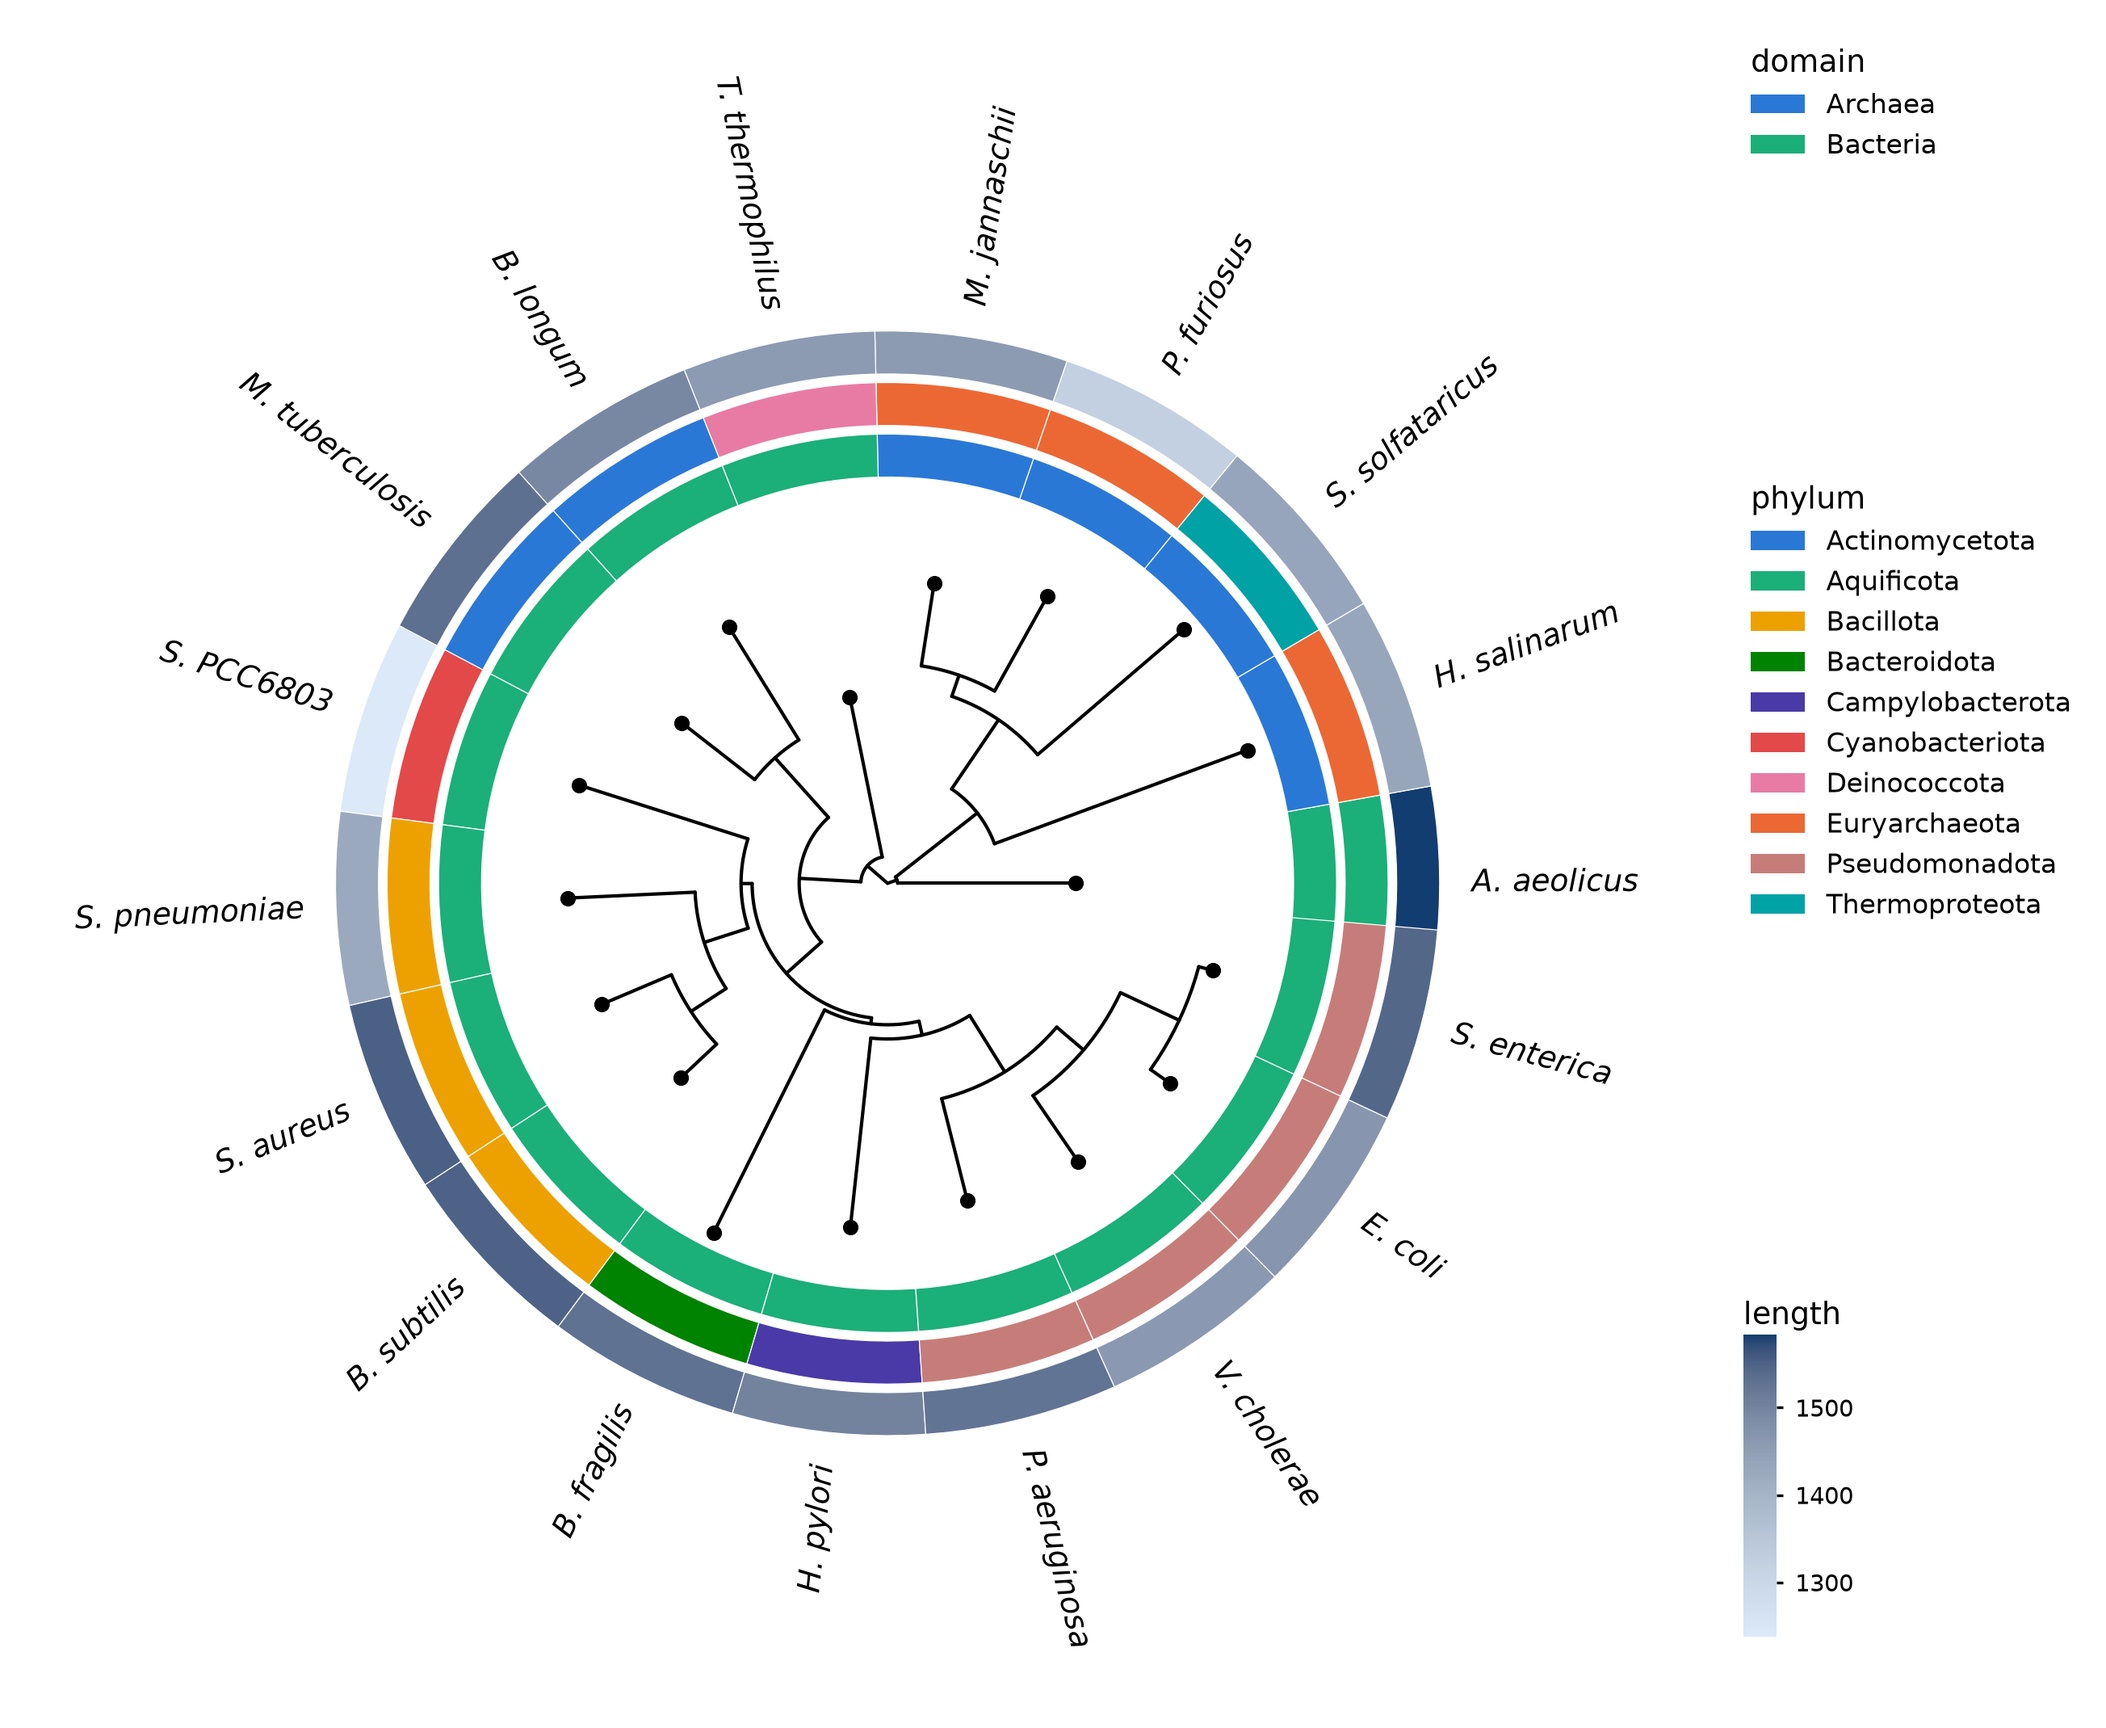
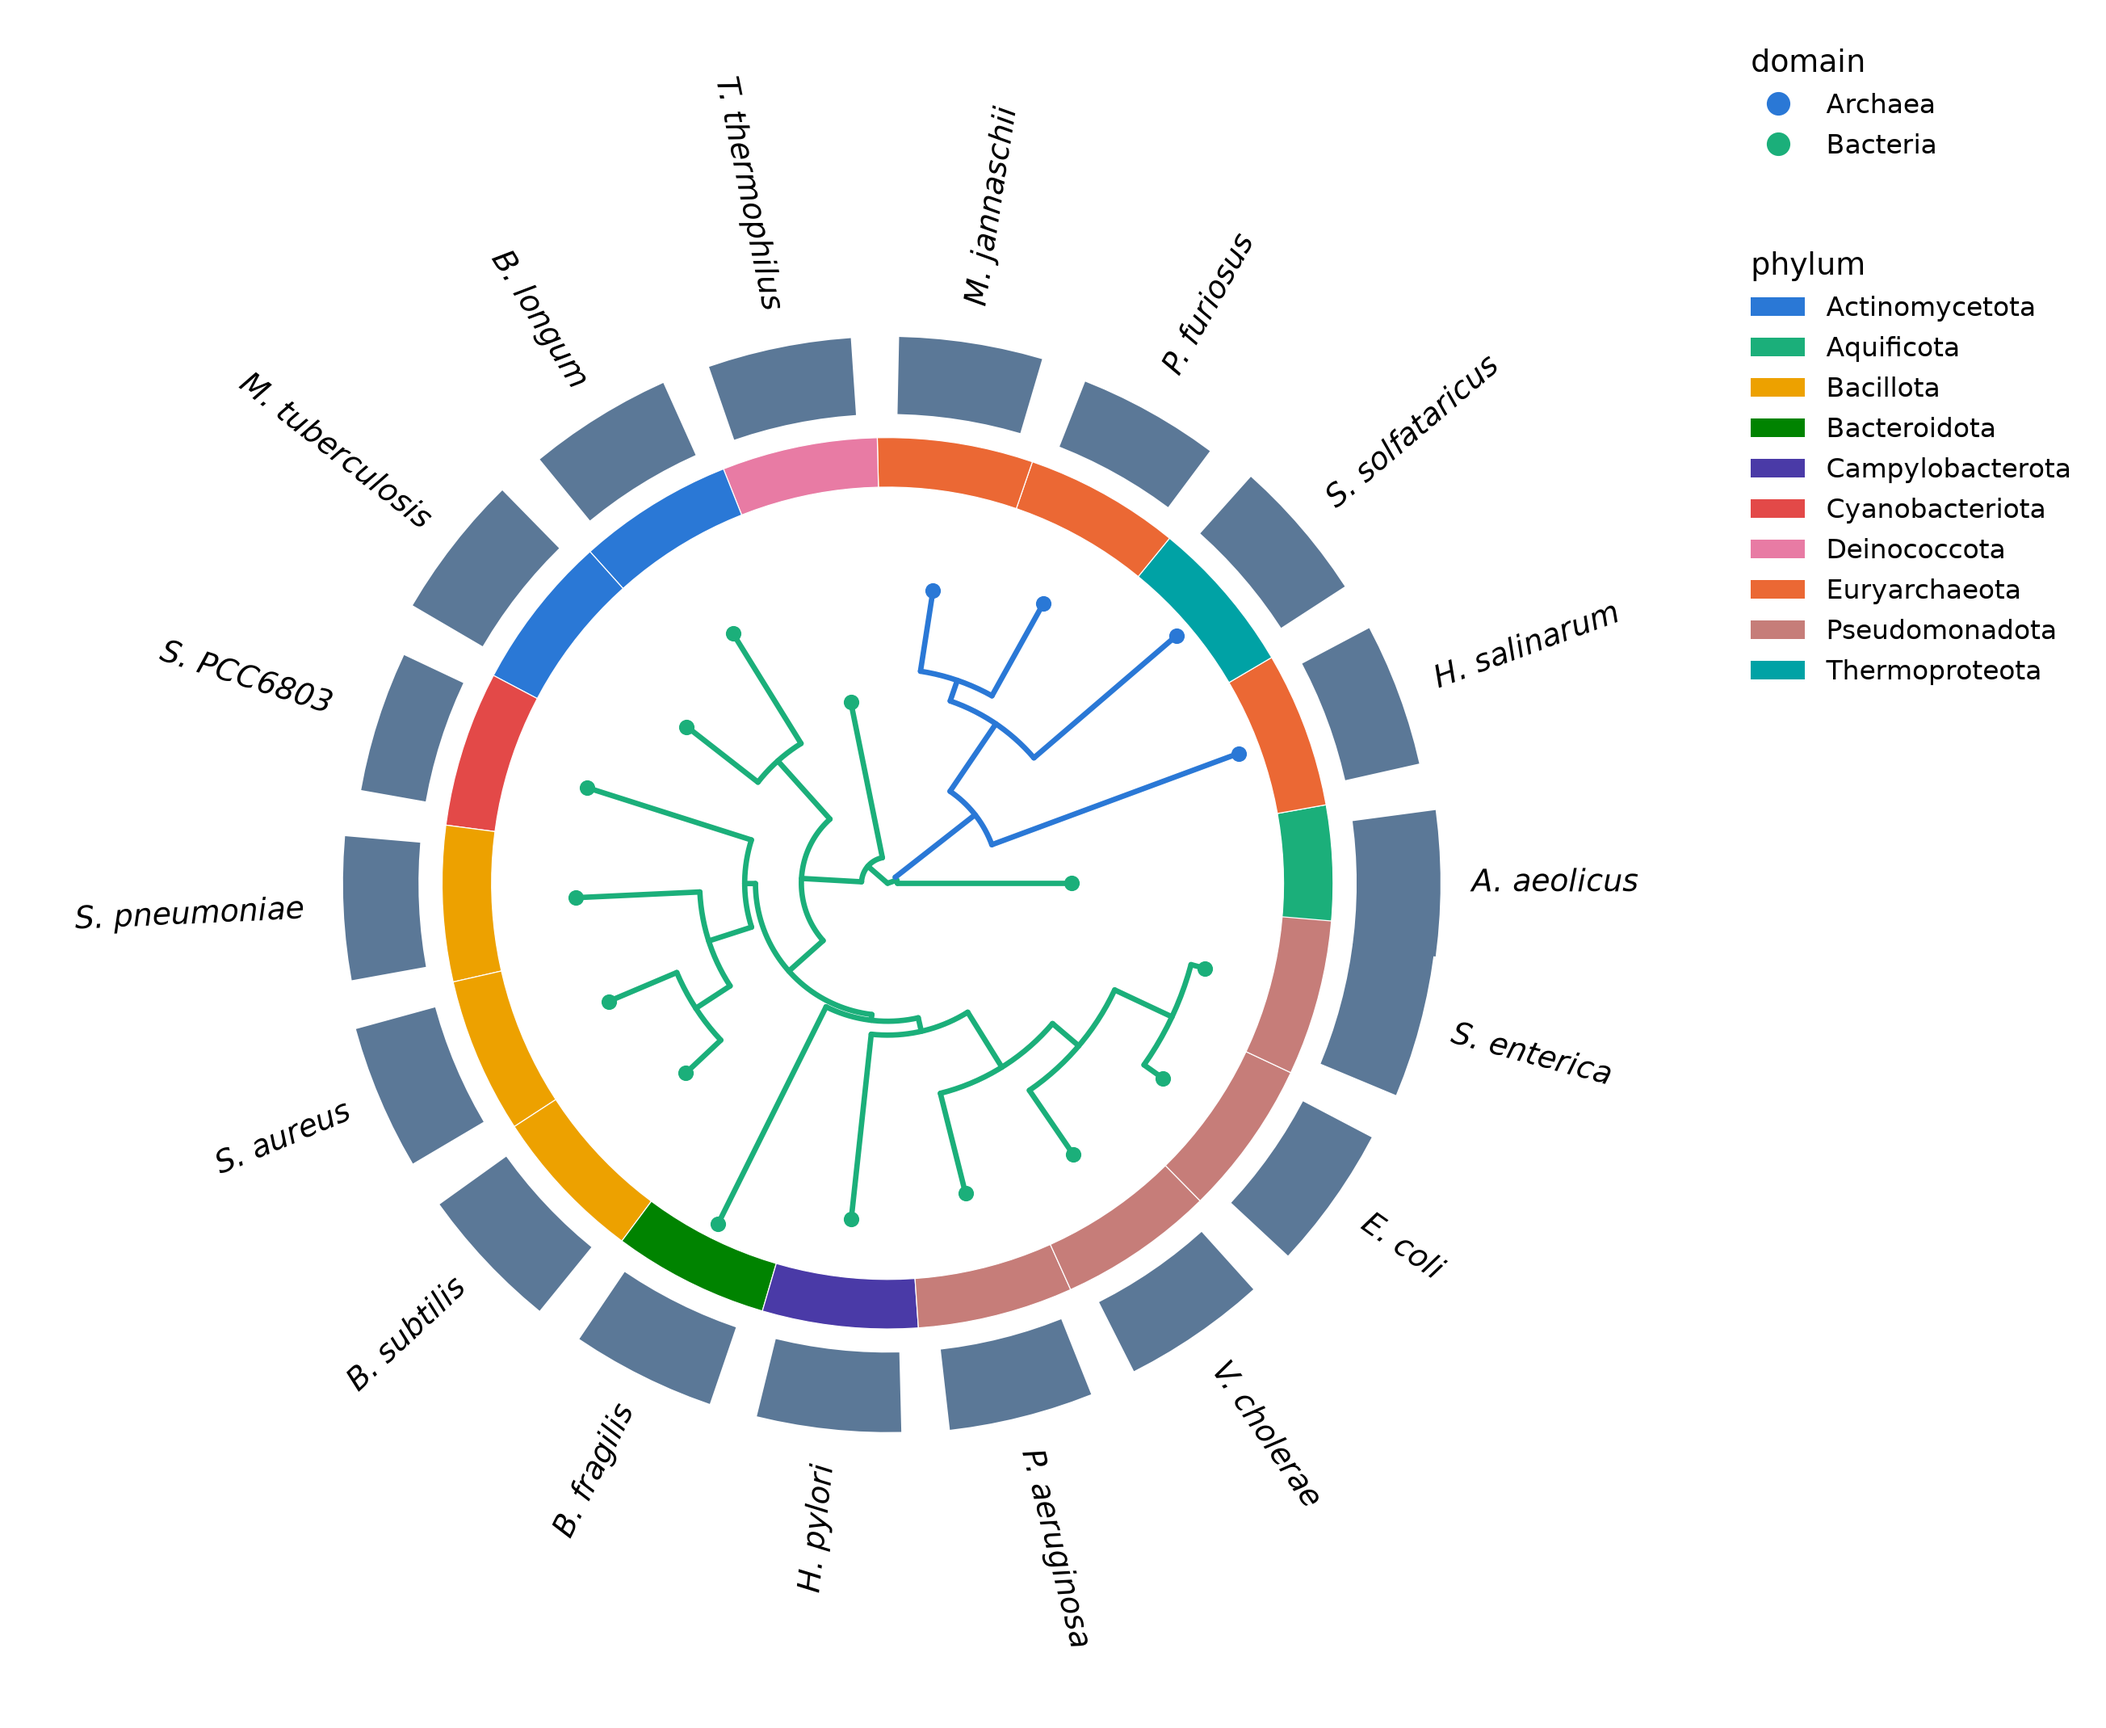
Make the figures worth looking at, not just readable
Legibility was measured and fixed; this is the part that was still merely
correct. Three library faults and three figures that were using the library
badly.

Keys were stacked by estimating each block's height from its entry count.
That leaves a ragged column, and on the tree-of-life figure it dropped the
colour bar a quarter of the figure's height below the key it belonged with,
with nothing in between. Each block is measured now and the next goes
directly beneath it.

A bar track had no scale, which makes the bars decoration: you can compare
two of them and read nothing off either. It matters most where the bars look
alike -- 16S lengths run 1238 to 1584, and against the zero baseline a bar
chart owes them, every bar lands between 78% and 100% of full width. The
answer is not to truncate the axis into showing a difference; it is to draw
the axis, so "nearly equal" reads as the finding rather than as a drawing
that failed.

The packed network normalised by distance from the origin the packer started
at, so one big piece plus a few stragglers came out sized for the far side
and margined on the near one. Centring on the bounding box takes the content
from 62% of the square to 92-95%.

The figures themselves:

The tree-of-life circular figure spent a whole ring on domain -- a full
circle of colour carrying one bit -- and left the tree as thin black lines
with no weight against three saturated bands, so the thing the figure is
[…]

diff --git a/phytreon/plot/backends.py b/phytreon/plot/backends.py
@@ -175,6 +175,22 @@ def render_mpl(ctx: RenderContext, title: Optional[str] = None,
             legend_x = max(1.02, (r - x0) / (x1 - x0) + 0.06)
     extra = []
     y = 1.0
+    # Stack the keys by *measuring* each one and putting the next directly
+    # below it. Guessing the height from the entry count -- which is what this
+    # did -- leaves a ragged column: too tight where a title wraps, and on the
+    # tree-of-life figure it pushed the colour bar right off the bottom of the
+    # legend stack, marooned a quarter of the figure's height below the key it
+    # belonged with.
+    fig.canvas.draw()
+    renderer = fig.canvas.get_renderer()
+    to_axes = ax.transAxes.inverted()
+
+    def _stack_below(artist, current, gap=0.03):
+        box = artist.get_window_extent(renderer)
+        top = to_axes.transform((0, box.y1))[1]
+        bottom = to_axes.transform((0, box.y0))[1]
+        return min(current, top) - (top - bottom) - gap
+
     from matplotlib.patches import Rectangle
     for lt, entries in scene.legends:
         handles, labels = [], []
@@ -197,7 +213,7 @@ def render_mpl(ctx: RenderContext, title: Optional[str] = None,
         leg._legend_box.align = "left"
         ax.add_artist(leg)
         extra.append(leg)
-        y -= 0.065 * (len(entries) + 2)
+        y = _stack_below(leg, y)
 
     # -- continuous colorbars (stacked below the legends) ----------------
     # Each title is a horizontal label *above* its bar (like the categorical
@@ -208,18 +224,21 @@ def render_mpl(ctx: RenderContext, title: Optional[str] = None,
     from matplotlib.colors import LinearSegmentedColormap, Normalize
     from matplotlib.cm import ScalarMappable
     cb_y = min(y, 0.92)
+    height = 0.18
     for title, vmin, vmax, stops in scene.colorbars:
         cmap = LinearSegmentedColormap.from_list(title or "cb", list(stops))
         sm = ScalarMappable(norm=Normalize(vmin=vmin, vmax=vmax), cmap=cmap)
-        top = max(cb_y - 0.20, 0.04)
-        cax = ax.inset_axes([legend_x + 0.01, top, 0.02, 0.18],
+        # its title sits above the bar, so leave room for that and no more --
+        # the old fixed 0.20 drop was a guess on top of a guess
+        top = max(cb_y - height - 0.04, 0.02)
+        cax = ax.inset_axes([legend_x + 0.01, top, 0.02, height],
                             transform=ax.transAxes)
         cb = fig.colorbar(sm, cax=cax)
         cb.outline.set_visible(False)
         cb.ax.tick_params(labelsize=7, length=2)
         cax.set_title(title, fontsize=9, loc="left", pad=3)
         extra.append(cax)
-        cb_y -= 0.34
+        cb_y = top - 0.07
 
     fig._phytreon_extra_artists = extra + base_text + al_text
     return fig

diff --git a/phytreon/plot/elements.py b/phytreon/plot/elements.py
@@ -620,7 +620,7 @@ class _BarTrack(_Element):
 
     def __init__(self, data, column, width: float = 0.4, offset: float = 0.04,
                  fill: str = "#5b7897", bar_height: float = 0.8, colname=True,
-                 colname_size: float = 9.0):
+                 colname_size: float = 9.0, axis: bool = True):
         self.data = _index_by_name(data)
         self.column = column
         self.width = width
@@ -629,6 +629,7 @@ class _BarTrack(_Element):
         self.bar_height = bar_height
         self.colname = colname
         self.colname_size = colname_size
+        self.axis = axis
 
     def apply(self, ctx: RenderContext) -> None:
         lay = ctx.layout
@@ -653,6 +654,28 @@ class _BarTrack(_Element):
             ctx.scene.add(Polygon(pts, facecolor=self.fill, edgecolor=None,
                                   alpha=1.0, zorder=2, align=True,
                                   label=f"{t.name} | {self.column}: {v:g}"))
+        if self.axis:
+            # Without a scale the bars are decoration: the reader can compare
+            # two of them and read nothing off either. It matters most exactly
+            # where the bars look alike -- 16S lengths run 1238 to 1584, and
+            # against the zero baseline a bar chart owes them, every bar is
+            # between 78% and 100% of full width. The axis is what says the
+            # bars start at zero and where they end, so "nearly equal" reads
+            # as the finding it is rather than as a drawing that failed.
+            # the rectangular layout counts rows downward, so "above the
+            # bars" is the *smaller* y and the labels anchor from their
+            # bottom edge, or they hang back down over the rule they caption
+            ylo = min(t.y for t in tips) - 0.6 - h
+            ctx.scene.add(Path([(x0, ylo), (x0 + total_w, ylo)],
+                               color="#555555", width=0.6, zorder=2,
+                               align=True))
+            for frac, value, side in ((0.0, vmin, "left"), (1.0, vmax, "right")):
+                x = x0 + frac * total_w
+                ctx.scene.add(Path([(x, ylo), (x, ylo + 0.22)], color="#555555",
+                                   width=0.6, zorder=2, align=True))
+                ctx.scene.add(Label(x, ylo - 0.12, ("%g" % value),
+                                    size=self.colname_size - 2, color="#555555",
+                                    ha=side, va="bottom", align=True))
         if self.colname:
             ymax = max(t.y for t in tips)
             ctx.scene.add(Label(x0 + total_w / 2, ymax + 0.8, str(self.column),

diff --git a/examples/tree_of_life_demo.py b/examples/tree_of_life_demo.py
@@ -46,7 +46,9 @@ print("Archaea MRCA spans", len(archaea.leaf_names()), "tips "
 (pt.TreeFigure(tree.ladderize())
     .tip_points(color="domain", size=8)
     .tip_labels(italic=True)
-    .support_labels(size=7)).save(os.path.join(OUT, "tol_rect.png"))
+    .support_labels(size=7)
+    .scale_bar()                 # branch lengths are substitutions/site, and
+    ).save(os.path.join(OUT, "tol_rect.png"))   # without a bar they read as nothing
 print("[ok] tol_rect.png")
 
 # 2. circular with metadata rings -----------------------------------------
@@ -61,9 +63,21 @@ for tip in tree.leaves():
     tip.name = abbrev[tip.name]
 meta_c = meta.rename(index=abbrev)
 
+# Domain goes on the *branches*, not into a ring of its own. Drawn as a ring
+# it was a full circle of colour carrying one bit -- and it left the tree as
+# thin black lines with no visual weight against three saturated bands, so the
+# thing the figure is about read as the faintest thing in it. On the branches
+# it costs no ring, and the two domains separate at a glance.
+by_domain = {}
+for tip in tree.leaves():
+    by_domain.setdefault(meta_c.loc[tip.name, "domain"], []).append(tip.name)
+pt.group_otu(tree, by_domain, key="domain")
+
 (pt.TreeFigure(tree, layout="circular", extent=345)
-    .tip_points(size=4)
-    .ring(meta_c, columns=["domain", "phylum", "length"], width=0.11, gap=0.022,
+    .branches(color="domain", size=1.6)
+    .tip_points(size=4, color="domain")
+    .ring(meta_c, columns=["phylum"], width=0.13, gap=0.022, colnames=False)
+    .ring(meta_c, columns=["length"], geom="bar", width=0.22, gap=0.022,
           colnames=False)                       # legend already names each ring
     .tip_labels(size=9, italic=True)).save(os.path.join(OUT, "tol_rings.png"),
                                            figsize=(12.5, 9))

diff --git a/examples/tracks_demo.py b/examples/tracks_demo.py
@@ -17,11 +17,19 @@ tree = pt.build_tree(os.path.join(DATA, "tol_16S_aligned.fasta"),
 tree.join_data(meta.reset_index(), on="name")
 
 # 1. multi-column tracks: two categorical tiles + a bar ----------------------
+# branches carry the domain and the tip points the phylum, so neither mark is
+# just decoration -- a black dot at every tip says only "a tip is here", which
+# the tree already said
+by_domain = {}
+for tip in tree.leaves():
+    by_domain.setdefault(meta.loc[tip.name, "domain"], []).append(tip.name)
+pt.group_otu(tree, by_domain, key="domain")   # also onto internal nodes
+
 (pt.TreeFigure(tree)
-    .tip_points(size=6)
+    .branches(color="domain", size=1.4)
+    .tip_points(color="phylum", size=6)
     .tip_labels(italic=True)
-    .heatmap(meta[["domain"]], width=0.05)      # each track its own scale
-    .heatmap(meta[["phylum"]], width=0.05)
+    .heatmap(meta[["phylum"]], width=0.05)      # domain is on the branches now
     .bar_track(meta, "length", width=0.30, fill="#4c78a8")
  ).save(os.path.join(OUT, "tol_tracks.png"))
 print("[ok] tol_tracks.png  (tile + tile + bar tracks)")

diff --git a/phytreon/plot/network.py b/phytreon/plot/network.py
@@ -256,8 +256,17 @@ def layout_by_component(nodes: Sequence[str], edges, **kwargs) -> List[XY]:
         for g, (x, y) in zip(group, pts):
             out[g] = (cx + x, cy + y)
 
-    reach = max(math.hypot(x, y) for x, y in out) or 1.0
-    return [(x / reach, y / reach) for x, y in out]
+    # Centre on the bounding box, not on the origin the packer happened to
+    # start from. Packing puts the biggest piece at the origin and rings the
+    # rest around it, so a graph with one big piece and a few stragglers ends
+    # up lopsided: normalising by distance-from-origin then sizes the frame
+    # for the far side and leaves the near side as margin.
+    xs = [x for x, _ in out]
+    ys = [y for _, y in out]
+    cx = (max(xs) + min(xs)) / 2.0
+    cy = (max(ys) + min(ys)) / 2.0
+    reach = max(math.hypot(x - cx, y - cy) for x, y in out) or 1.0
+    return [((x - cx) / reach, (y - cy) / reach) for x, y in out]
 
 
 class SequenceNetwork(_Renderable):

diff --git a/CHANGELOG.md b/CHANGELOG.md
@@ -18,6 +18,21 @@ All notable changes to phytreon are documented here. Format loosely follows
   black text at 12.5:1).
 
 ### Fixed
+- **Keys stack by measurement instead of by guess.** Each legend block's height
+  was estimated from its entry count, which left a ragged column and, on the
+  tree-of-life figure, pushed the colour bar a quarter of the figure's height
+  below the key it belonged with. Each block is now measured and the next sits
+  directly beneath it.
+- **A bar track has a scale.** Without one the bars were decoration — you could
+  compare two of them and read nothing off either. It matters most exactly
+  where the bars look alike: 16S lengths run 1238 to 1584, and against the zero
+  baseline a bar chart owes them every bar is between 78% and 100% of full
+  width. The axis is what makes "nearly equal" read as the finding it is rather
+  than as a drawing that failed. Turn it off with `bar_track(..., axis=False)`.
+- **A packed network centres on its bounding box**, not on the origin the
+  packer started from, so a graph with one big piece and a few stragglers is
+  not sized for the far side and margined on the near one: the content now
+  fills 92–95% of the square, against 62% before.
 - **Figures no longer print names on top of each other.** Three defects, all
   found by counting real glyph collisions rather than by eye — measured off
   glyph ink and off *oriented* boxes, since a circular tree's labels are
